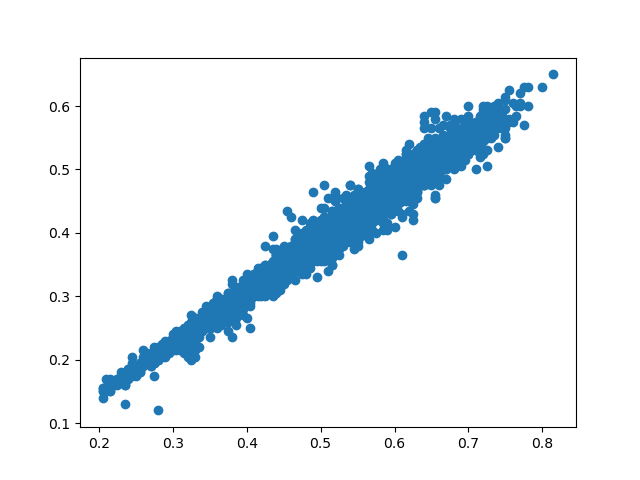
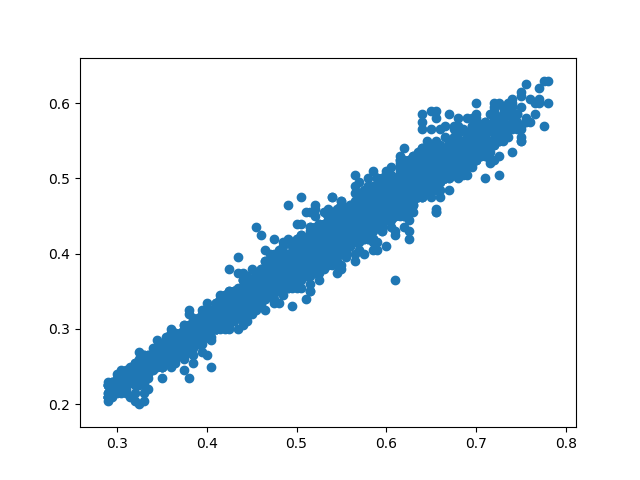
problemas

diff --git a/templates/index.html b/templates/index.html
@@ -116,11 +116,11 @@
         <div class="item">
             <div class="subitems">
                 <p>before</p>
-                <img class="imagen" src="{{datas[0]}}" alt="no se pudo encontrar">
+                <img style="width: 100%;" class="imagen" src="{{datas[0]}}" alt="no se pudo encontrar">
             </div>
             <div class="subitems">
                 <p>after</p>
-                <img src="{{datas[1]}}" alt="">
+                <img style="width: 100%;" src="{{datas[1]}}" alt="">
             </div>
         </div>
         <div class="item2">

diff --git a/datos.py b/datos.py
@@ -56,10 +56,12 @@ def quantiles(column):
 
 def todelete(column, newlist, factoralfa):
     deleted = []
+    print("norrea")
+    print(factoralfa)
     for i in range(0, len(datacsv[column])):
-        if (datacsv[column][i] < newlist[0]-factoralfa*newlist[2]):
+        if (datacsv[column][i] < newlist[0]-int(factoralfa)*newlist[2]):
             deleted.append(i)
-        if (datacsv[column][i] > newlist[1] + factoralfa*newlist[2]):
+        if (datacsv[column][i] > newlist[1] + int(factoralfa)*newlist[2]):
             deleted.append(i)
 
     return deleted
@@ -133,42 +135,43 @@ def framescatter(datacsvframe, column,column2, dataframeoriginal):
     ubicacion2 = 'datos/static/grafica2.png'
     plot.savefig(ubicacion2)
 
-#funciones para el modelo
-#modelo de una entrada y una salida
-def modelounoauno(variableentrada,variablesalida,tipoderegresion,tamañoentrenamiento,factoralfa):
-
-    X=deleting(variableentrada[0], todelete(variableentrada[0], quantiles(variableentrada[0]), corregirfactoralfa(factoralfa)))[variableentrada]
-    Y=deleting(variablesalida, todelete(variablesalida, quantiles(variablesalida), corregirfactoralfa(factoralfa)))[variablesalida]
-
-    X_train, X_test, y_train, y_test = train_test_split(
-                                        X,
-                                        Y,
-                                        train_size   = 0.5,
-                                    )
-    modelo = LinearRegression()
-    modelo.fit(X = np.array(X_train).reshape(-1, 1), y = y_train)
-            ##se debe retornar
-    datosobtenidos = modelo.predict(X = np.array(X_test).reshape(-1,1))
-    print(datosobtenidos)
-    rmse = mean_squared_error(y_true  = y_test, y_pred  = predicciones)
-    print(rmse)
-            #############
-    if(tipoderegresion == "polinomica"):
-        print("hola")
-    
-
 #funcion para que el alfa se asigne correctamente
 
 def corregirfactoralfa(factoralfa):
     if(factoralfa=="0"):
         return 1.5
-        print("entro")
     if(factoralfa=="1"):
         return 2
     if(factoralfa=="2"):
         return 2.5
     if(factoralfa=="3"):
         return 3
+
+#funciones para el modelo
+#modelo de una entrada y una salida
+def modelounoauno(variableentrada,variablesalida,tipoderegresion,tamañoentrenamiento,factoralfa):
+
+    X=deleting(variableentrada[0], todelete(variableentrada[0], quantiles(variableentrada[0]), corregirfactoralfa(factoralfa)))[variableentrada[0]]
+    Y=deleting(variablesalida, todelete(variablesalida, quantiles(variablesalida), corregirfactoralfa(factoralfa)))[variablesalida]
+
+    X_train, X_test, Y_train, Y_test = train_test_split(
+                                        X,
+                                        Y,
+                                        train_size   = tamañoentrenamiento,
+                                    )
+    modelo = LinearRegression()
+    modelo.fit(X = np.array(X_train).reshape(-1, 1), y = Y_train)
+            ##se debe retornar
+    datosobtenidos = modelo.predict(X = np.array(X_test).reshape(-1,1))
+    print(datosobtenidos)
+    rmse = mean_squared_error(y_true  = Y_test, y_pred  = datosobtenidos)
+    print(rmse)
+            #############
+    if(tipoderegresion == "polinomica"):
+        print("hola")
+    
+
+
 #funcion de correcion de tamañode entranamiento
 
 def corregirentrenamiento(tamañoentrenamiento):
@@ -227,10 +230,11 @@ def visualize():
             corazon()
     if (len(variableentrada) == 1 and variablesalida != "no"):
         if (atipicos == "activado"):
+            modelounoauno(variableentrada,variablesalida,regresion,tamañoentrenamiento,corregirfactoralfa(factoralfa))
             fig = framescatter(deleting(variableentrada[0], todelete(variableentrada[0], quantiles(variableentrada[0]), corregirfactoralfa(factoralfa))),variableentrada[0],variablesalida,datacsv)
         else:
             corazon()
-    modelounoauno(variableentrada,variablesalida,regresion,tamañoentrenamiento,corregirfactoralfa(factoralfa))
+    
     #con este return, solo le digo que renderice con las 2 imagenes cuales quiera
     #ya depende de cada metodo de los de arriba de las rutas de flask guardar las imagenes que son
     return render_template('index.html', datas=["../static/grafica2.png", "../static/grafica.png"])
